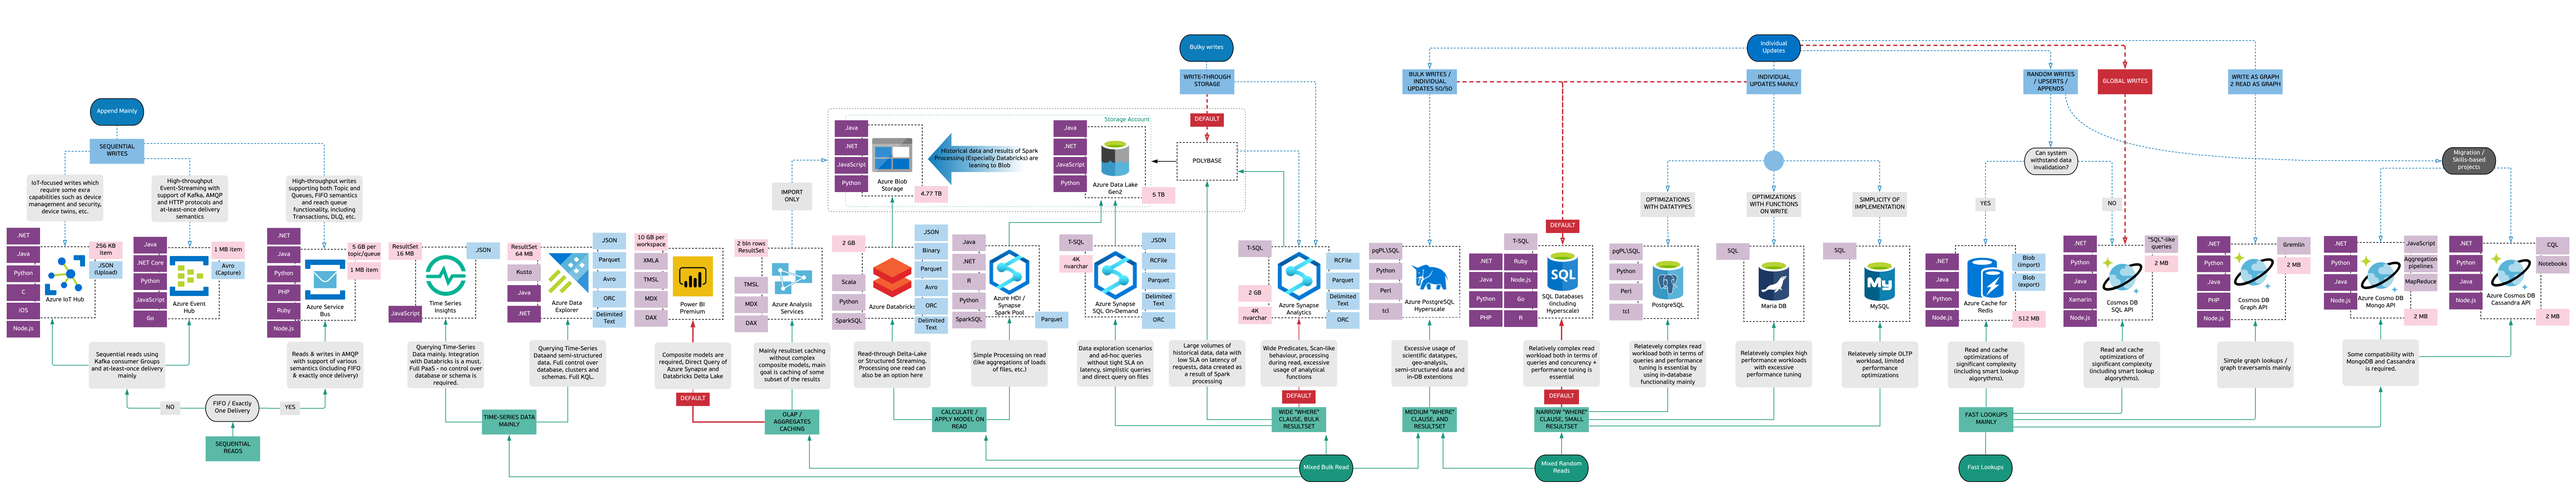
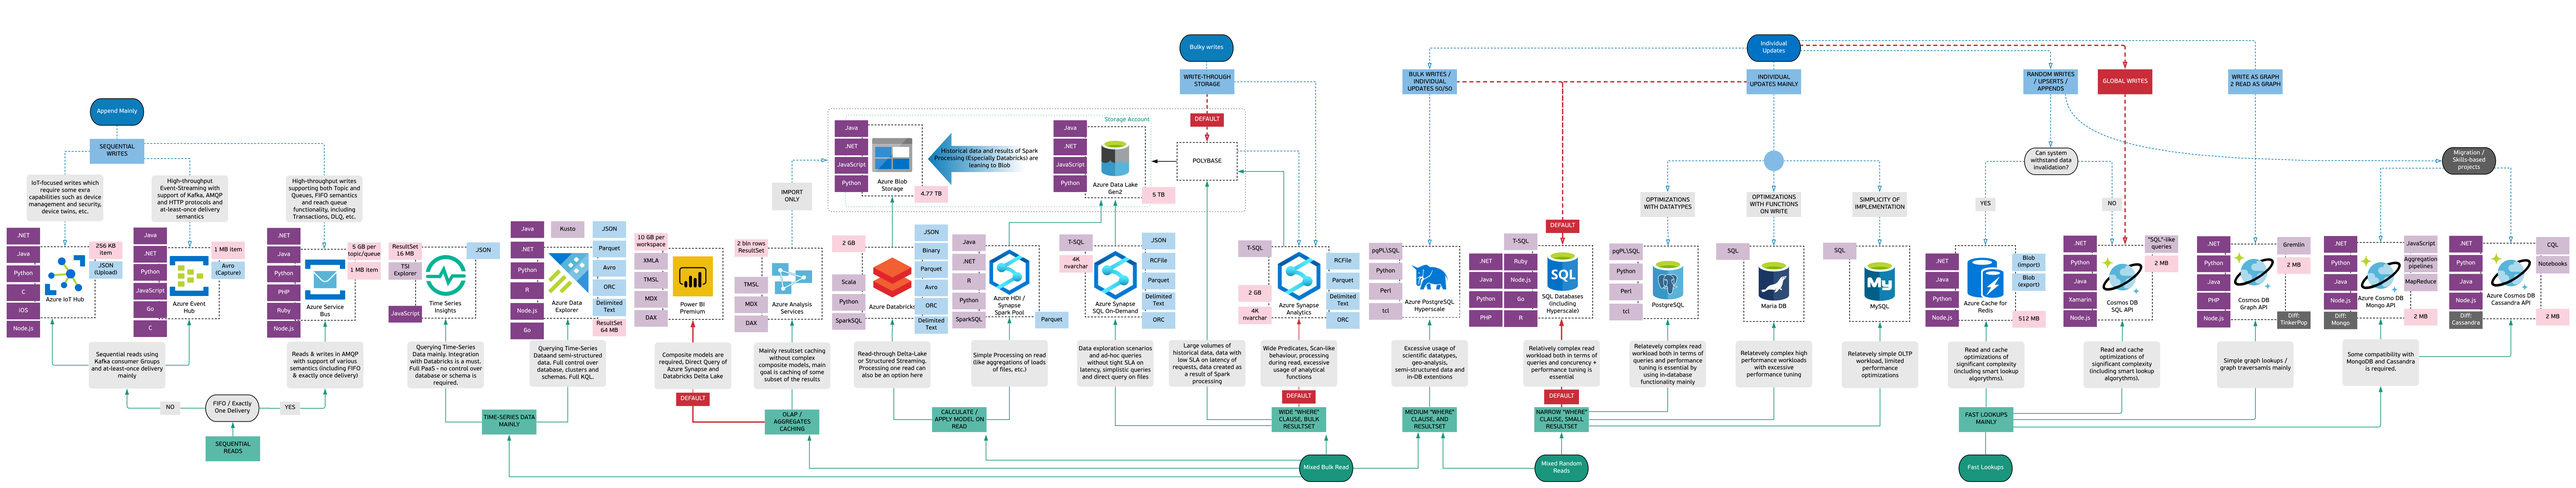
New version of Developer View + part of DevView Image Map

diff --git a/html/forlang.html b/html/forlang.html
@@ -29,6 +29,179 @@
     <img src="/images/DTForlang.png" alt="Albero Main Decision Tree" style="min-width: 30%" usemap="#map" />
     <map name="map">
         <!--  -->
+
+        <area shape="rect" coords="261, 782, 371, 835" alt="IoT Hub File Formats" href="https://docs.microsoft.com/en-us/azure/iot-hub/iot-hub-devguide-file-upload" />
+        <area shape="rect" coords="262, 720, 372, 778" alt="IoT Hub Item Size" href="https://github.com/MicrosoftDocs/azure-docs/blob/master/includes/iot-hub-limits.md" />
+        <area shape="rect" coords="19, 959, 124, 1018" alt="IoT Hub Node.js SDK" href="https://docs.microsoft.com/en-us/javascript/api/azure-iot-device/?view=azure-iot-typescript-latest" />
+        <area shape="rect" coords="16, 906, 123, 956" alt="IoT Hub iOS SDK" href="https://docs.microsoft.com/en-us/azure/iot-hub/iot-c-sdk-ref/" />
+        <area shape="rect" coords="15, 851, 124, 902" alt="IoT HUb C SDK" href="https://docs.microsoft.com/en-us/azure/iot-hub/iot-c-sdk-ref/" />
+        <area shape="rect" coords="15, 794, 123, 848" alt="IoT Hub Python SDK" href="https://docs.microsoft.com/en-us/python/api/azure-iot-device" />
+        <area shape="rect" coords="17, 739, 124, 789" alt="IoT Hub Java SDK" href="https://docs.microsoft.com/en-us/java/api/com.microsoft.azure.sdk.iot.device" />
+        <area shape="rect" coords="18, 680, 122, 735" alt="IoT Hub .NET SDK" href="https://docs.microsoft.com/en-us/dotnet/api/microsoft.azure.devices?view=azure-dotnet" />
+
+        <area shape="rect" coords="391, 928, 502, 985" alt="EH Hub Go SDK" href="https://docs.microsoft.com/en-us/azure/event-hubs/event-hubs-go-get-started-send" />
+        <area shape="rect" coords="395, 848, 504, 901" alt="EH JS SDK" href="https://docs.microsoft.com/en-us/azure/event-hubs/event-hubs-node-get-started-send" />
+        <area shape="rect" coords="396, 791, 501, 847" alt="EH Python SDK" href="https://docs.microsoft.com/en-us/azure/event-hubs/event-hubs-python-get-started-send" />
+        <area shape="rect" coords="398, 736, 501, 792" alt="EH .NET Core SDK" href="https://docs.microsoft.com/en-us/azure/event-hubs/event-hubs-dotnet-standard-getstarted-send" />
+        <area shape="rect" coords="397, 680, 502, 736" alt="EH Java SDK" href="https://docs.microsoft.com/en-us/azure/event-hubs/event-hubs-java-get-started-send" />
+        <area shape="rect" coords="629, 782, 733, 839" alt="EH Hub File Format" href="https://docs.microsoft.com/en-us/azure/event-hubs/event-hubs-capture-overview" />
+        <area shape="rect" coords="631, 723, 735, 778" alt="EH Hub Item Size" href="https://docs.microsoft.com/en-us/azure/event-hubs/event-hubs-faq" />
+        <area shape="rect" coords="397, 957, 501, 1016" alt="EH Hub SDK C" href="https://docs.microsoft.com/en-us/azure/event-hubs/event-hubs-c-getstarted-send" />
+
+        <area shape="rect" coords="795, 964, 904, 1015" alt="Service Bus Node.js" href="https://docs.microsoft.com/en-us/azure/service-bus-messaging/service-bus-nodejs-how-to-use-queues-new-package" />
+        <area shape="rect" coords="797, 908, 903, 959" alt="Service Bus Ruby" href="https://docs.microsoft.com/en-us/azure/service-bus-messaging/service-bus-ruby-how-to-use-queues" />
+        <area shape="rect" coords="798, 852, 903, 904" alt="Service Bus PHP" href="https://docs.microsoft.com/en-us/azure/service-bus-messaging/service-bus-php-how-to-use-queues" />
+        <area shape="rect" coords="797, 793, 902, 849" alt="Service Bus Python" href="https://docs.microsoft.com/en-us/azure/service-bus-messaging/service-bus-python-how-to-use-queues" />
+        <area shape="rect" coords="798, 737, 902, 790" alt="Service Bus Java" href="https://docs.microsoft.com/en-us/azure/service-bus-messaging/service-bus-java-how-to-use-queues" />
+        <area shape="rect" coords="798, 678, 902, 736" alt="Service Bus .NET" href="https://docs.microsoft.com/en-us/azure/service-bus-messaging/service-bus-dotnet-get-started-with-queues" />
+        <area shape="rect" coords="1038, 786, 1143, 840" alt="Service Bus Topic Size" href="https://docs.microsoft.com/en-us/azure/service-bus-messaging/service-bus-quotas" />
+        <area shape="rect" coords="1039, 724, 1143, 784" alt="Service Bus Item Size" href="https://docs.microsoft.com/en-us/azure/service-bus-messaging/service-bus-quotas" />
+
+        <area shape="rect" coords="1396, 723, 1500, 778" alt="TSI JSON" href="https://docs.microsoft.com/en-us/azure/time-series-insights/how-to-plan-your-environment" />
+        <area shape="rect" coords="1162, 914, 1265, 970" alt="TSI JavaScript" href="https://github.com/microsoft/tsiclient/blob/master/docs/API.md" />
+        <area shape="rect" coords="1161, 724, 1266, 783" alt="TSI ResultSet" href="https://docs.microsoft.com/en-us/rest/api/time-series-insights/reference-api-limits" />
+        <area shape="rect" coords="1161, 780, 1266, 837" alt="TSI Explorer" href="https://docs.microsoft.com/en-us/azure/time-series-insights/time-series-insights-update-explorer" />
+
+        <area shape="rect" coords="1647, 659, 1754, 717" alt="ADX Kusto" href="https://docs.microsoft.com/en-us/azure/data-explorer/kusto/concepts/" />
+        <area shape="rect" coords="1525, 967, 1631, 1019" alt="ADX Go" href="https://docs.microsoft.com/en-us/azure/data-explorer/kusto/api/golang/kusto-golang-client-library" />
+        <area shape="rect" coords="1527, 907, 1632, 961" alt="ADX Node.js" href="https://docs.microsoft.com/en-us/azure/data-explorer/kusto/api/node/kusto-node-client-library" />
+        <area shape="rect" coords="1527, 844, 1631, 900" alt="ADX R" href="https://docs.microsoft.com/en-us/azure/data-explorer/kusto/api/r/kusto-r-client-library" />
+        <area shape="rect" coords="1529, 785, 1629, 840" alt="ADX Python" href="https://docs.microsoft.com/en-us/azure/data-explorer/kusto/api/python/kusto-python-client-library" />
+        <area shape="rect" coords="1528, 724, 1632, 778" alt="ADX .NET" href="https://docs.microsoft.com/en-us/azure/data-explorer/kusto/api/netfx/about-kusto-data" />
+        <area shape="rect" coords="1526, 660, 1631, 715" alt="ADX Java" href="https://docs.microsoft.com/en-us/azure/data-explorer/kusto/api/java/kusto-java-client-library" />
+        <area shape="rect" coords="1771, 954, 1878, 1013" alt="ADX ResultSet" href="https://docs.microsoft.com/en-us/azure/data-explorer/kusto/concepts/querylimits" />
+        <area shape="rect" coords="1773, 895, 1876, 950" alt="ADX Delimited Text" href="https://docs.microsoft.com/en-us/azure/data-explorer/ingestion-supported-formats" />
+        <area shape="rect" coords="1774, 837, 1876, 890" alt="ADX ORC" href="https://docs.microsoft.com/en-us/azure/data-explorer/ingestion-supported-formats" />
+        <area shape="rect" coords="1774, 779, 1876, 832" alt="ADX Avro" href="https://docs.microsoft.com/en-us/azure/data-explorer/ingestion-supported-formats" />
+        <area shape="rect" coords="1774, 720, 1876, 774" alt="ADX Parquet" href="https://docs.microsoft.com/en-us/azure/data-explorer/ingestion-supported-formats" />
+        <area shape="rect" coords="1774, 661, 1877, 716" alt="ADX JSON" href="https://docs.microsoft.com/en-us/azure/data-explorer/ingestion-supported-formats" />
+
+        <area shape="rect" coords="1896, 923, 2005, 986" alt="PBI DAX" />
+        <area shape="rect" coords="1896, 870, 2004, 923" alt="PBI MDX" />
+        <area shape="rect" coords="1893, 812, 2004, 867" alt="PBI TMSL" />
+        <area shape="rect" coords="1897, 757, 2004, 809" alt="PBI XMLA" />
+        <area shape="rect" coords="1896, 696, 2003, 753" alt="PBI Workspace Limit" />
+ 
+        <area shape="rect" coords="2199, 947, 2303, 1000" alt="AAS DAX" />
+        <area shape="rect" coords="2197, 887, 2303, 942" alt="AAS MDX" />
+        <area shape="rect" coords="2198, 829, 2304, 884" alt="AAS TMSL" />
+        <area shape="rect" coords="2196, 714, 2303, 772" alt="AAS ResultSet" />
+
+        <area shape="rect" coords="2735, 549, 2839, 612" alt="Blob Object Size" />
+        <area shape="rect" coords="2498, 521, 2604, 580" alt="Blob Python" />
+        <area shape="rect" coords="2498, 470, 2603, 523" alt="Blob JavaScript" />
+        <area shape="rect" coords="2498, 416, 2603, 468" alt="Blob .NET" />
+        <area shape="rect" coords="2498, 358, 2602, 413" alt="Blob Java" />
+
+        <area shape="rect" coords="2490, 938, 2594, 992" alt="Databricks SparkSQL" />
+        <area shape="rect" coords="2488, 882, 2593, 934" alt="Databricks Python" />
+        <area shape="rect" coords="2490, 820, 2593, 876" alt="Databricks Scala" />
+        <area shape="rect" coords="2489, 703, 2593, 759" alt="Databricks Object Size" />
+        <area shape="rect" coords="2736, 949, 2843, 1005" alt="Databricks Delimited Text" />
+        <area shape="rect" coords="2737, 890, 2844, 946" alt="Databricks ORC" />
+        <area shape="rect" coords="2734, 837, 2843, 891" alt="Databricks Avro" />
+        <area shape="rect" coords="2735, 781, 2844, 835" alt="Databricks Parquet" />
+        <area shape="rect" coords="2736, 727, 2843, 780" alt="Databricks Binary" />
+        <area shape="rect" coords="2736, 671, 2843, 728" alt="Databricks JSON" />
+
+        <area shape="rect" coords="2846, 930, 2956, 989" alt="Spark Synapse Java" />
+        <area shape="rect" coords="2847, 874, 2956, 931" alt="Spark Synapse .NET" />
+        <area shape="rect" coords="2847, 816, 2954, 874" alt="Spark Synapse R" />
+        <area shape="rect" coords="2849, 758, 2955, 814" alt="Spark Synapse Python" />
+        <area shape="rect" coords="2851, 700, 2954, 758" alt="Spark Synapse SparkSQL" />
+        <area shape="rect" coords="3096, 932, 3202, 986" alt="Spark Synapse Parquet" />
+
+        <area shape="rect" coords="3416, 935, 3524, 990" alt="Synapse OnDemand ORC" />
+        <area shape="rect" coords="3419, 874, 3522, 933" alt="Synapse OnDemand Delimietd Text" />
+        <area shape="rect" coords="3425, 822, 3519, 868" alt="Synapse OnDemand Parquet" />
+        <area shape="rect" coords="3419, 758, 3523, 813" alt="Synapse OnDemand RCFIle" />
+        <area shape="rect" coords="3419, 695, 3523, 753" alt="Synapse OnDemand JSON" />
+        <area shape="rect" coords="3171, 762, 3276, 821" alt="Synapse OnDemand NVarChar Limit" />
+        <area shape="rect" coords="3171, 701, 3275, 756" alt="Synapse OnDemand TSQL" />
+
+        <area shape="rect" coords="3417, 559, 3522, 613" alt="ADLS Object Size" />
+        <area shape="rect" coords="3151, 525, 3258, 577" alt="ADLS Python" />
+        <area shape="rect" coords="3152, 472, 3257, 524" alt="ADLS JavaScript" />
+        <area shape="rect" coords="3152, 415, 3256, 468" alt="ADLS .NET" />
+        <area shape="rect" coords="3153, 359, 3256, 412" alt="ADLS Java" />
+
+        <area shape="rect" coords="3968, 934, 4079, 988" alt="Synapse ORC" />
+        <area shape="rect" coords="3968, 875, 4079, 930" alt="Synapse Delimited Text" />
+        <area shape="rect" coords="3969, 816, 4078, 867" alt="Synapse Parquet" />
+        <area shape="rect" coords="3969, 755, 4077, 814" alt="RCFile" />
+        <area shape="rect" coords="3708, 918, 3812, 974" alt="Synapse Varchar Limit" />
+        <area shape="rect" coords="3706, 854, 3812, 909" alt="Synapse Object Size" />
+        <area shape="rect" coords="3706, 719, 3811, 772" alt="Synapse TSQL" />
+
+        <area shape="rect" coords="4096, 905, 4205, 964" alt="Hyperscale tcl" />
+        <area shape="rect" coords="4096, 846, 4204, 903" alt="Hyperscale Perl" />
+        <area shape="rect" coords="4097, 786, 4204, 843" alt="Hyperscale Python" />
+        <area shape="rect" coords="4097, 727, 4204, 780" alt="Hyperscale pgPLSQL" />
+
+        <area shape="rect" coords="4504, 928, 4607, 983" alt="SQL R" />
+        <area shape="rect" coords="4504, 872, 4607, 927" alt="SQL Go" />
+        <area shape="rect" coords="4505, 815, 4607, 869" alt="SQL Node.js" />
+        <area shape="rect" coords="4506, 758, 4607, 814" alt="SQL Ruby" />
+        <area shape="rect" coords="4397, 929, 4501, 983" alt="SQL PHP" />
+        <area shape="rect" coords="4398, 873, 4501, 924" alt="SQL Python" />
+        <area shape="rect" coords="4398, 817, 4501, 868" alt="SQL Java" />
+        <area shape="rect" coords="4399, 758, 4501, 813" alt="SQL .NET" />
+        <area shape="rect" coords="4502, 696, 4609, 755" alt="SQL TSQL" />
+
+        <area shape="rect" coords="4818, 910, 4923, 964" alt="PostgreSQL pgPLSQL" />
+        <area shape="rect" coords="4818, 848, 4924, 905" alt="PostgreSQL Python" />
+        <area shape="rect" coords="4818, 789, 4923, 842" alt="PostgreSQL Perl" />
+        <area shape="rect" coords="4818, 727, 4923, 783" alt="PostgreSQL pgPLSQL" />
+
+        <area shape="rect" coords="5458, 725, 5562, 780" alt="MySQL SQL" />
+        <area shape="rect" coords="5139, 727, 5241, 780" alt="MariaDB SQL" />
+
+        <area shape="rect" coords="6026, 931, 6129, 983" alt="Redis String Size" href="https://redis.io/topics/data-types" />
+        <area shape="rect" coords="6024, 818, 6131, 872" alt="Redis File Export" href="https://docs.microsoft.com/en-us/azure/azure-cache-for-redis/cache-how-to-import-export-data" />
+        <area shape="rect" coords="6027, 759, 6130, 816" alt="Redis File Import" href="https://docs.microsoft.com/en-us/azure/azure-cache-for-redis/cache-how-to-import-export-data" />
+        <area shape="rect" coords="5765, 929, 5868, 979" alt="Redis Node.js" href="https://docs.microsoft.com/en-us/azure/azure-cache-for-redis/cache-nodejs-get-started" />
+        <area shape="rect" coords="5766, 871, 5865, 926" alt="Redis Python" href="https://docs.microsoft.com/en-us/azure/azure-cache-for-redis/cache-python-get-started" />
+        <area shape="rect" coords="5766, 816, 5869, 868" alt="Redis Java" href="https://docs.microsoft.com/en-us/java/api/com.microsoft.azure.management.redis.rediscache" />
+        <area shape="rect" coords="5765, 757, 5867, 811" alt="Redis .NET" href="https://docs.microsoft.com/en-us/dotnet/api/microsoft.azure.management.redis" />
+
+        <area shape="rect" coords="6419, 764, 6527, 818" alt="Cosmos DB SQL API Item Size" href="https://docs.microsoft.com/en-us/azure/cosmos-db/concepts-limits" />
+        <area shape="rect" coords="6420, 702, 6526, 763" alt="Cosmos DB API Query Language" href="https://docs.microsoft.com/en-us/azure/cosmos-db/tutorial-query-sql-api" />
+        <area shape="rect" coords="6176, 929, 6282, 982" alt="Cosmos DB SQL API Node.js" href="https://docs.microsoft.com/en-us/azure/cosmos-db/create-sql-api-nodejs" />
+        <area shape="rect" coords="6177, 874, 6282, 926" alt="Cosmos DB SQL API Xamarin" href="https://docs.microsoft.com/en-us/azure/cosmos-db/create-sql-api-xamarin-dotnet" />
+        <area shape="rect" coords="6178, 819, 6281, 870" alt="Cosmos DB SQL API Java" href="https://docs.microsoft.com/en-us/azure/cosmos-db/create-sql-api-java" />
+        <area shape="rect" coords="6178, 762, 6282, 815" alt="Cosmos DB SQL API Python" href="https://docs.microsoft.com/en-us/azure/cosmos-db/create-sql-api-python" />
+        <area shape="rect" coords="6178, 703, 6282, 759" alt="Cosmos DB SQL API .NET" href="https://docs.microsoft.com/en-us/azure/cosmos-db/sql-api-dotnet-application" />
+
+        <area shape="rect" coords="6818, 768, 6922, 824" alt="Gremlin Message Size" href="https://docs.microsoft.com/en-us/azure/cosmos-db/concepts-limits" />
+        <area shape="rect" coords="6819, 705, 6923, 767" alt="Gremlin Language" href="https://docs.microsoft.com/en-us/azure/cosmos-db/create-graph-gremlin-console" />
+        <area shape="rect" coords="6578, 932, 6683, 985" alt="Gremlin Node.js" href="https://docs.microsoft.com/en-us/azure/cosmos-db/create-graph-nodejs" />
+        <area shape="rect" coords="6578, 878, 6682, 929" alt="Gremlin PHP" href="https://docs.microsoft.com/en-us/azure/cosmos-db/create-graph-php" />
+        <area shape="rect" coords="6578, 820, 6681, 875" alt="Gremlin Java" href="https://docs.microsoft.com/en-us/azure/cosmos-db/create-graph-java" />
+        <area shape="rect" coords="6576, 764, 6683, 817" alt="Gremlin Python" href="https://docs.microsoft.com/en-us/azure/cosmos-db/create-graph-python" />
+        <area shape="rect" coords="6578, 704, 6681, 761" alt="Gremlin .NET" href="https://docs.microsoft.com/en-us/azure/cosmos-db/create-graph-dotnet" />
+        <area shape="rect" coords="6816, 931, 6923, 990" alt="Gremlin Diff" href="https://docs.microsoft.com/en-us/azure/cosmos-db/gremlin-support" />
+
+        <area shape="rect" coords="7197, 925, 7301, 978" alt="Mongo Item Size" href="https://docs.microsoft.com/en-us/azure/cosmos-db/concepts-limits" />
+        <area shape="rect" coords="7199, 821, 7303, 880" alt="Mongo MapReduce" href="https://docs.microsoft.com/en-us/azure/cosmos-db/mongodb-feature-support-36" />
+        <area shape="rect" coords="7200, 763, 7304, 817" alt="Mongo Aggregation Pipeline" href="https://docs.microsoft.com/en-us/azure/cosmos-db/mongodb-feature-support-36" />
+        <area shape="rect" coords="7200, 703, 7303, 761" alt="mongo JavaScript" href="https://docs.microsoft.com/en-us/azure/cosmos-db/tutorial-query-mongodb" />
+        <area shape="rect" coords="6958, 876, 7064, 932" alt="Mongo Node.js" href="https://docs.microsoft.com/en-us/azure/cosmos-db/create-mongodb-nodejs" />
+        <area shape="rect" coords="6959, 820, 7064, 876" alt="Mongo Java" href="https://docs.microsoft.com/en-us/azure/cosmos-db/create-mongodb-java" />
+        <area shape="rect" coords="6957, 765, 7064, 817" alt="Mongo Python" href="https://docs.microsoft.com/en-us/azure/cosmos-db/create-mongodb-flask" />
+        <area shape="rect" coords="6958, 705, 7063, 761" alt="Mongo .NET" href="https://docs.microsoft.com/en-us/azure/cosmos-db/create-mongodb-dotnet" />
+        <area shape="rect" coords="6957, 931, 7065, 991" alt="Mongo Diff" href="https://docs.microsoft.com/en-us/azure/cosmos-db/mongodb-feature-support-36" />
+
+        <area shape="rect" coords="7591, 923, 7698, 979" alt="Cass Item Size" href="https://docs.microsoft.com/en-us/azure/cosmos-db/concepts-limits" />
+        <area shape="rect" coords="7592, 766, 7698, 822" alt="Cass Notebooks" href="https://docs.microsoft.com/en-us/azure/cosmos-db/cosmosdb-jupyter-notebooks" />
+        <area shape="rect" coords="7592, 707, 7697, 766" alt="Cass CQL" href="https://devblogs.microsoft.com/cosmosdb/announcing-native-cassandra-shell-preview/" />
+        <area shape="rect" coords="7333, 877, 7437, 930" alt="Cass Node.js" href="https://docs.microsoft.com/en-us/azure/cosmos-db/create-cassandra-nodejs" />
+        <area shape="rect" coords="7334, 821, 7437, 875" alt="Cass Java" href="https://docs.microsoft.com/en-us/azure/cosmos-db/create-cassandra-java-v4" />
+        <area shape="rect" coords="7333, 764, 7436, 816" alt="Cass Python" href="https://docs.microsoft.com/en-us/azure/cosmos-db/create-cassandra-python" />
+        <area shape="rect" coords="7332, 705, 7438, 760" alt="Cass .NET" href="https://docs.microsoft.com/en-us/azure/cosmos-db/create-cassandra-dotnet" />
+        <area shape="rect" coords="7334, 932, 7437, 991" alt="Cass Diff" href="https://docs.microsoft.com/en-us/azure/cosmos-db/cassandra-support" />
+        
+        
+        
     </map>
   </body>
 </html>

diff --git a/index.html b/index.html
@@ -130,5 +130,3 @@
     </map>
   </body>
 </html>
-
-
